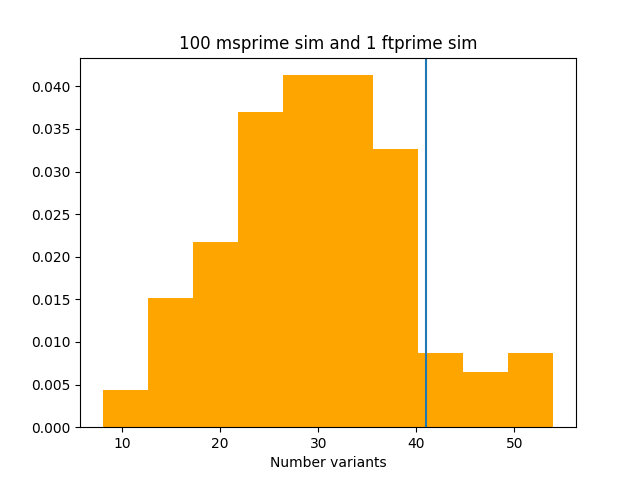
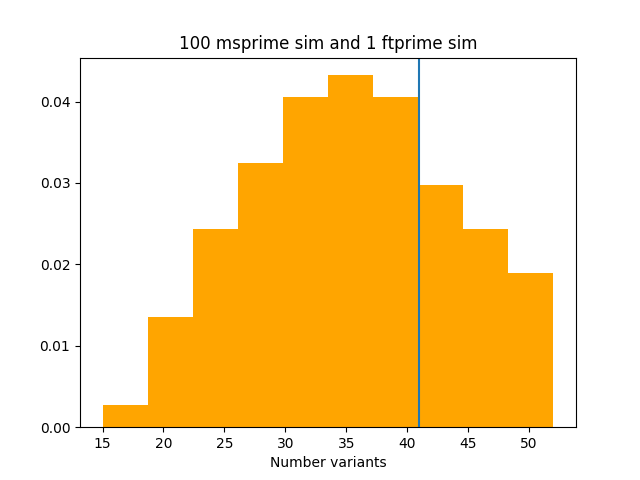
Add results

diff --git a/sims/check.py b/sims/check.py
@@ -11,7 +11,7 @@ parser.add_argument("--popsize","-N", type=int, dest="popsize",
 parser.add_argument("--theta","-ϴ", type=int, dest="theta",
                     help="total mutation rate for whole chromosome: theta = 4 N u/site (sites)", default=100)
 parser.add_argument("--rho","-ρ", type=int, dest="rho",
-                    help="total recombination rate for whole chromosome: rho = 4 N r/site (sites)", default=100)
+                    help="total **diploid** recombination rate for whole chromosome: rho = 4 N r/site (sites)", default=100)
 parser.add_argument("--nsam","-k", type=int, dest="nsam",
                     help="total number of samples with msprime", default=10)
 parser.add_argument("--sims","-n", type=int, dest="NUM",
@@ -35,8 +35,8 @@ rec_rate = rho/4. / L /Ne
 S_msprime = []
 
 for _ in range(args.NUM):
-    g = msprime.simulate(args.nsam, Ne=Ne, length=L, mutation_rate=mut_rate,
-                         recombination_rate=rec_rate)
+    g = msprime.simulate(2 * args.nsam, Ne=Ne, length=L, mutation_rate=mut_rate,
+                         recombination_rate=rec_rate / 2.0)
     S_msprime.append(len([i for i in g.variants()]))
 
 rng = msprime.RandomGenerator(random.randint(1, 2**32 - 1))

diff --git a/sims/rmin.py b/sims/rmin.py
@@ -1,0 +1,24 @@
+import msprime
+import os
+import libsequence.msprime
+import libsequence.summstats
+
+N = 2500.0
+rate = 250.0
+
+print('ftprime_S', 'ftprime_Rmin', 'msprime_S', 'msprime_Rmin')
+
+for tf in [f for f in os.listdir() if f.find('tree_235569') == 0]:
+    ft = msprime.load(tf)
+    L = ft.sequence_length
+    mt = msprime.simulate(50, recombination_rate=rate/(4.*N * L),
+                          mutation_rate=rate/(4.*N * L), Ne=N, length=L)
+    s = []
+    for t in [ft, mt]:
+        S = t.get_num_mutations()
+        d = libsequence.msprime.make_SimData(t)
+        ad = libsequence.summstats.PolySIM(d)
+        minrec = ad.rm()
+        s.append(S)
+        s.append(minrec)
+    print(*s)
